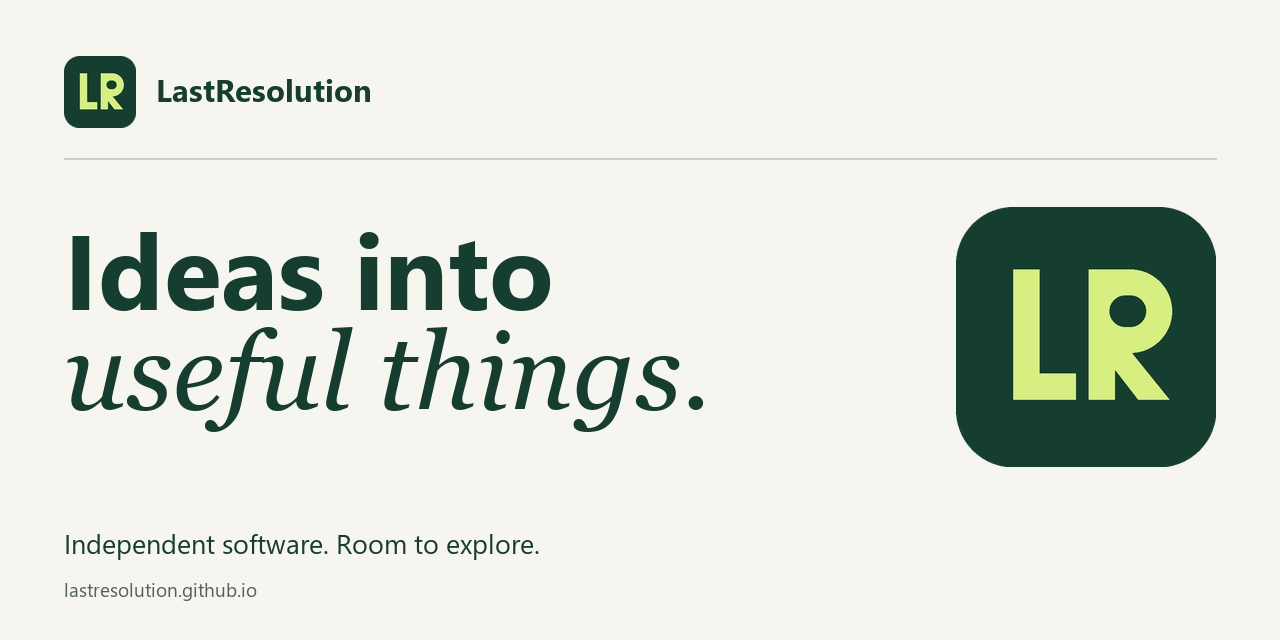
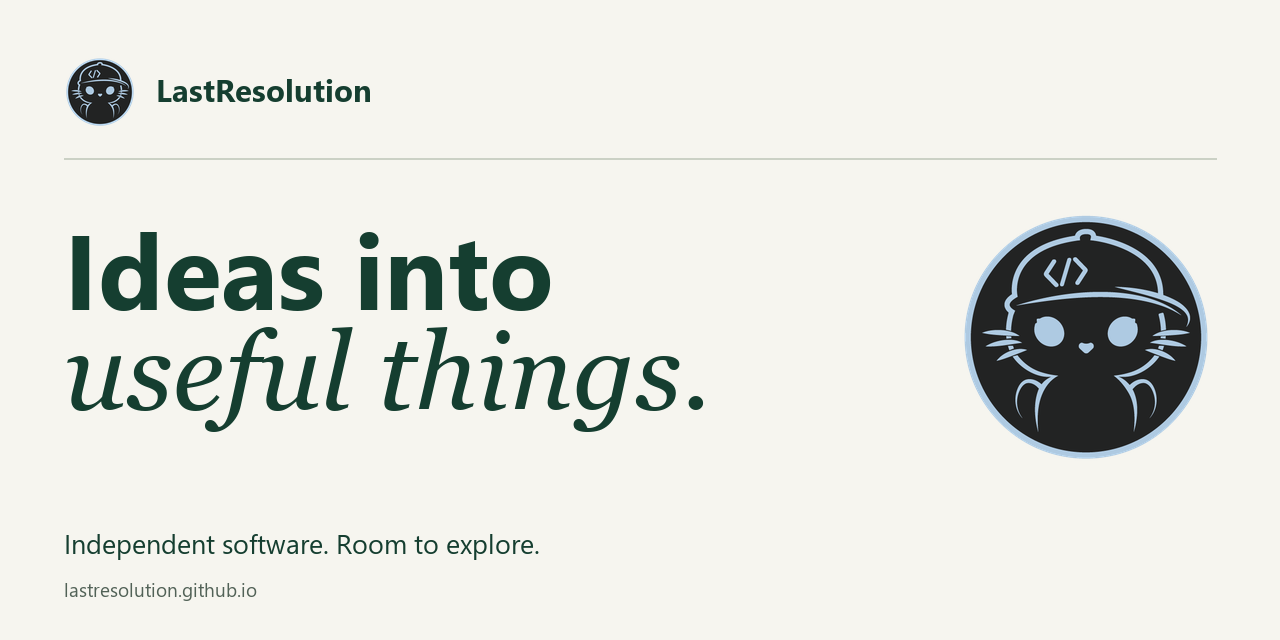
Use the LastResolution profile artwork across the homepage

Changed region(s): [[0.75, 0.3125, 0.9688, 0.75], [0.0312, 0.0625, 0.125, 0.2188]]

diff --git a/index.html b/index.html
@@ -25,7 +25,6 @@
   <meta name="twitter:title" content="LastResolution — Independent software. Room to explore.">
   <meta name="twitter:description" content="Useful things, made independently and shared in the open.">
   <meta name="twitter:image" content="https://lastresolution.github.io/assets/social-preview.png">
-  <link rel="icon" href="/assets/favicon.svg" type="image/svg+xml" sizes="any">
   <link rel="icon" href="/assets/favicon.png" type="image/png" sizes="96x96">
   <link rel="apple-touch-icon" href="/assets/apple-touch-icon.png" sizes="180x180">
   <script src="/assets/site.js"></script>
@@ -48,6 +47,7 @@
         "@id": "https://lastresolution.github.io/#creator",
         "name": "LastResolution",
         "url": "https://lastresolution.github.io/",
+        "image": "https://lastresolution.github.io/assets/avatar.png",
         "sameAs": ["https://github.com/LastResolution", "https://buymeacoffee.com/LastResolution"]
       }
     ]
@@ -58,7 +58,7 @@
   <a class="skip-link" href="#main">Skip to content</a>
   <header class="site-header">
     <div class="shell header-inner">
-      <a class="brand" href="/" aria-label="LastResolution home"><img src="/assets/mark.svg" width="38" height="38" alt=""><span>LastResolution<span class="brand-dot" aria-hidden="true">.</span></span></a>
+      <a class="brand" href="/" aria-label="LastResolution home"><img src="/assets/avatar.png" width="38" height="38" alt=""><span>LastResolution<span class="brand-dot" aria-hidden="true">.</span></span></a>
       <nav aria-label="Main navigation"><a href="#work">Work</a><a href="#about">About</a><a href="#elsewhere">Elsewhere <span aria-hidden="true">↗</span></a></nav>
       <label class="theme-control"><svg aria-hidden="true" viewBox="0 0 24 24"><circle cx="12" cy="12" r="4"/><path d="M12 2v2m0 16v2M2 12h2m16 0h2M5 5l1.4 1.4M17.6 17.6 19 19M5 19l1.4-1.4M17.6 6.4 19 5"/></svg><span class="sr-only">Color theme</span><select id="theme-picker" aria-label="Color theme" disabled><option value="system">System</option><option value="light">Light</option><option value="dark">Dark</option></select></label>
     </div>
@@ -74,7 +74,7 @@
         </div>
         <div class="hero-art" aria-hidden="true">
           <div class="art-label"><span>Always a work in progress.</span><span>01—∞</span></div>
-          <div class="art-board"><div class="art-grid"></div><img class="art-mark" src="/assets/mark.svg" width="280" height="280" alt=""><span class="art-corner top-left"></span><span class="art-corner top-right"></span><span class="art-corner bottom-left"></span><span class="art-corner bottom-right"></span><span class="art-note">Stay curious.<br>Make something useful.</span><span class="art-spark">✳</span></div>
+          <div class="art-board"><div class="art-grid"></div><img class="art-mark" src="/assets/avatar.png" width="512" height="512" alt=""><span class="art-corner top-left"></span><span class="art-corner top-right"></span><span class="art-corner bottom-left"></span><span class="art-corner bottom-right"></span><span class="art-note">Stay curious.<br>Make something useful.</span><span class="art-spark">✳</span></div>
           <div class="art-caption"><span>Built independently.</span><span>Shared openly.</span></div>
         </div>
       </div>

diff --git a/assets/styles.css b/assets/styles.css
@@ -59,7 +59,7 @@
 
 @layer components {
   .brand { display:inline-flex; align-items:center; flex-shrink:0; gap:11px; text-decoration:none; font-size:1.1rem; letter-spacing:-.04em; font-weight:650; }
-  .brand img { border-radius:8px; width:38px; height:38px; }
+  .brand img { border-radius:50%; width:38px; height:38px; }
   .brand-dot { color:var(--muted); }
   .header-inner nav a { text-decoration:none; font-size:.85rem; font-weight:500; }
   .header-inner nav a:hover,.quiet-link:hover { text-decoration:underline; }
@@ -83,7 +83,7 @@
   .art-caption { margin-top:10px; }
   .art-board { position:relative; aspect-ratio:1.08; overflow:hidden; background:var(--surface); border:1px solid var(--line); border-radius:5px; }
   .art-grid { position:absolute; inset:0; background-image:linear-gradient(var(--line) 1px,transparent 1px),linear-gradient(90deg,var(--line) 1px,transparent 1px); background-size:36px 36px; opacity:.5; }
-  .art-mark { position:absolute; top:13%; left:20%; width:61%; border-radius:20%; transform:rotate(-9deg); box-shadow:16px 22px 0 color-mix(in srgb,var(--ink) 9%,transparent); }
+  .art-mark { position:absolute; top:10%; left:18%; width:64%; border-radius:50%; filter:drop-shadow(0 16px 18px #0002); }
   .art-note { position:absolute; left:20px; bottom:20px; font-size:.64rem; font-family:"Cascadia Code",Consolas,monospace; line-height:1.5; }
   .art-spark { position:absolute; right:23px; bottom:13px; font-size:2.5rem; line-height:1; }
   .art-corner { position:absolute; width:9px; height:9px; border-color:var(--ink); border-style:solid; border-width:0; }
@@ -154,7 +154,7 @@
     .shell { width:calc(100% - 40px); }
     .header-inner { min-height:76px; gap:16px; flex-wrap:wrap; padding-block:14px 12px; }
     .brand { font-size:1rem; }
-    .brand img { width:30px; height:30px; border-radius:6px; }
+    .brand img { width:30px; height:30px; }
     .header-inner nav { order:3; width:100%; justify-content:space-between; gap:18px; }
     .header-inner nav a { font-size:.75rem; }
     .theme-control { margin-left:auto; padding-left:13px; gap:6px; }

diff --git a/scripts/render-brand.py b/scripts/render-brand.py
@@ -1,4 +1,4 @@
-"""Render the site's own vector/typographic brand assets; no input photos are used.
+"""Render favicon and social derivatives of the supplied public profile artwork.
 
 Optional development helper, requiring Pillow. Fonts come from known system-font
 locations with a DejaVu fallback. Deployment uses the committed output directly.
@@ -8,22 +8,16 @@ from pathlib import Path
 from PIL import Image, ImageDraw, ImageFont
 
 ASSETS = Path(__file__).resolve().parent.parent / "assets"
-FOREST, LIME, PAPER = "#153e30", "#d7ee80", "#f6f5ef"
+FOREST, PAPER = "#153e30", "#f6f5ef"
 
 
 def mark(size):
-    """Rasterize the same monogram geometry used by mark.svg at the given size."""
-    scale = 6
-    image = Image.new("RGBA", (600, 600), (0, 0, 0, 0))
-    draw = ImageDraw.Draw(image)
-    box = lambda values: tuple(round(value * scale) for value in values)
-    draw.rounded_rectangle(box((0, 0, 100, 100)), radius=22 * scale, fill=FOREST)
-    draw.polygon([box(p) for p in [(22, 24), (32, 24), (32, 64), (46, 64), (46, 74), (22, 74)]], fill=LIME)
-    draw.rectangle(box((51, 24, 61, 74)), fill=LIME)
-    draw.polygon([box(p) for p in [(61, 48), (82, 74), (70, 74), (53, 52)]], fill=LIME)
-    draw.rounded_rectangle(box((51, 24, 83, 56)), radius=16 * scale, fill=LIME)
-    draw.rectangle(box((51, 24, 66, 56)), fill=LIME)
-    draw.rounded_rectangle(box((59, 34, 73, 46)), radius=6 * scale, fill=FOREST)
+    """Resize the public avatar while preserving its aspect ratio and transparency."""
+    with Image.open(ASSETS / "avatar.png") as source:
+        if source.width != source.height:
+            raise ValueError("Profile artwork must be square; cropping is not automatic.")
+        image = source.convert("RGBA")
+        image.info.clear()
     return image.resize((size, size), Image.Resampling.LANCZOS)
 
 
@@ -40,8 +34,6 @@ def font(size, bold=False, italic=False):
 
 if __name__ == "__main__":
     ASSETS.mkdir(exist_ok=True)
-    svg = (ASSETS / "mark.svg").read_text(encoding="utf-8")
-    (ASSETS / "favicon.svg").write_text(svg, encoding="utf-8", newline="\n")
     mark(96).save(ASSETS / "favicon.png", optimize=True)
     mark(180).save(ASSETS / "apple-touch-icon.png", optimize=True)
     mark(256).save(ASSETS.parent / "favicon.ico", sizes=[(16, 16), (32, 32), (48, 48), (64, 64)])

diff --git a/README.md b/README.md
@@ -27,6 +27,6 @@ Keep the root `WebSite` name and `og:site_name` consistent with LastResolution. 
 
 Public identity is limited to the LastResolution handle and public project/support URLs. Do not add private contact details, local paths, application inventories, settings, credentials or unpublished projects. Use a GitHub noreply commit identity and run `scripts/check-privacy.ps1 -Staged` before committing.
 
-ReStart screenshots use its English demonstration layout and sample data. They and the ReStart logo come from the [ReStart repository](https://github.com/LastResolution/ReStart). Third-party product names and icons shown within the screenshots belong to their respective owners. The portfolio mark and social image are local vector/typographic artwork.
+ReStart screenshots use its English demonstration layout and sample data. They and the ReStart logo come from the [ReStart repository](https://github.com/LastResolution/ReStart). Third-party product names and icons shown within the screenshots belong to their respective owners. The profile artwork was supplied by LastResolution; its metadata is removed from the public copy. Favicons and the social preview reuse that artwork. The optional `scripts/render-brand.py` helper regenerates these derivatives from `assets/avatar.png` using Pillow and local fonts.
 
 Source and artwork are available under the [MIT license](LICENSE).
